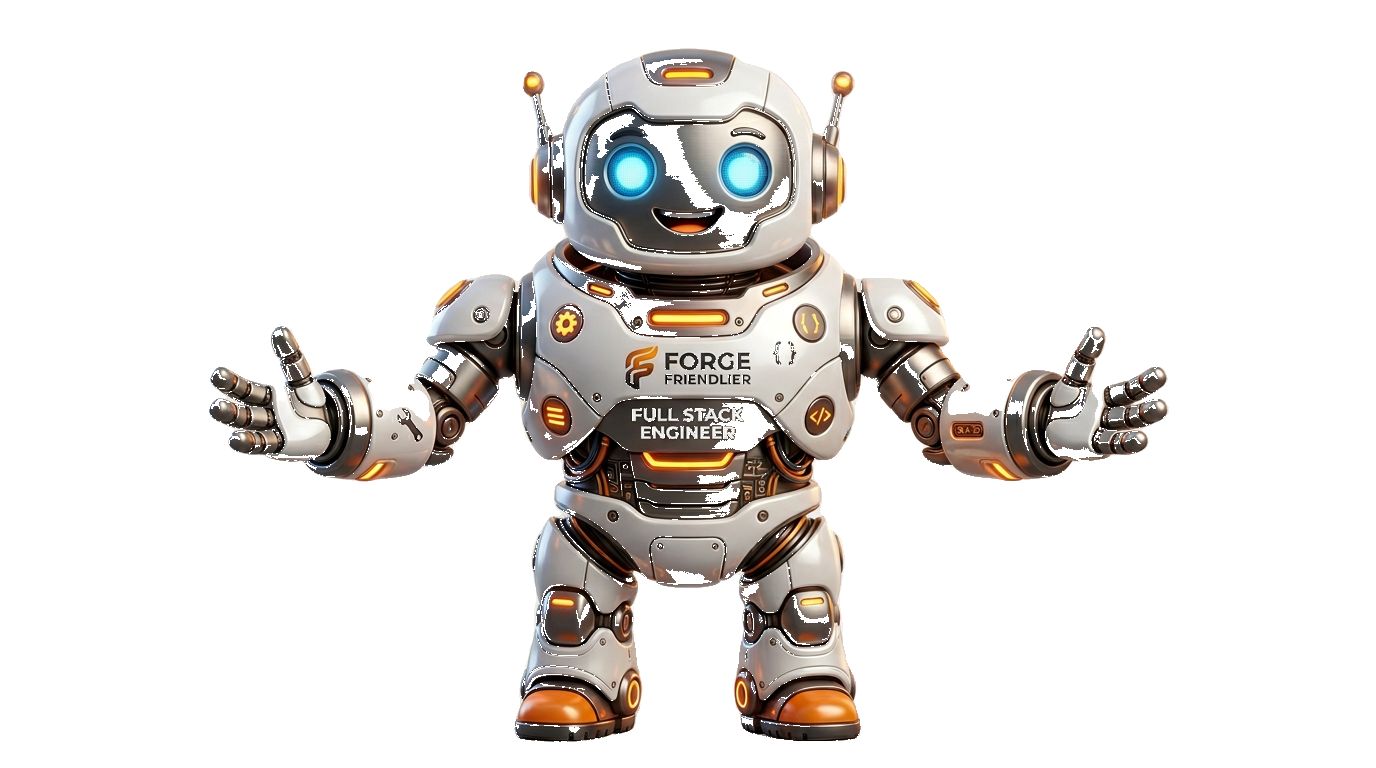
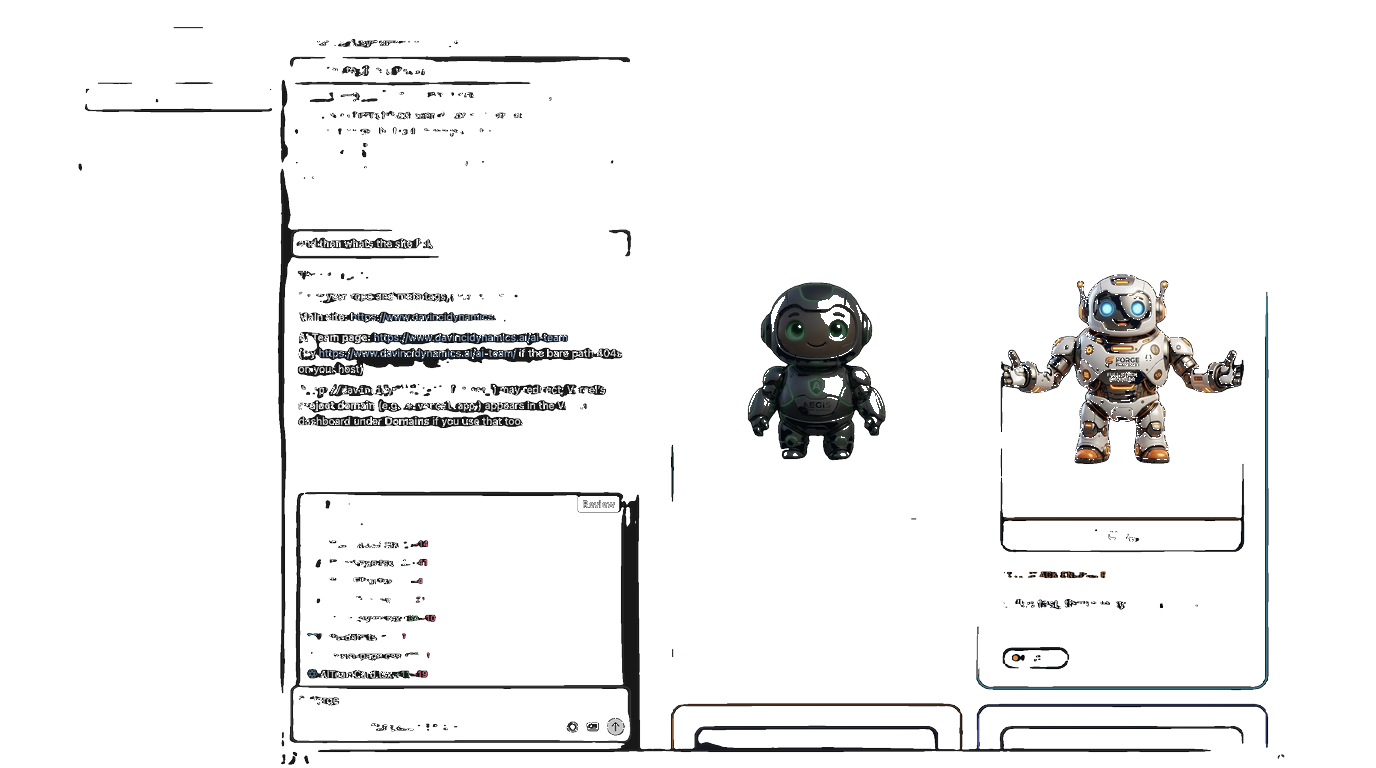
fix(ai-team): immediate document scroll on first wheel gesture
Use pointer-events on hero shell, live strip, and cards so overflow-hidden
layers do not trap wheel events. Smaller forge icon asset and related bot data/CSS tweaks.

Made-with: Cursor

diff --git a/client/src/components/ai-team/AITeamCard.tsx b/client/src/components/ai-team/AITeamCard.tsx
@@ -16,12 +16,9 @@ export function AITeamCard({ bot, highlight, onSelect, onHover, onLeave }: AITea
 
   return (
     <article
-      role="button"
-      tabIndex={0}
-      aria-label={bot.mascotSrc ? `${bot.name}. ${bot.role}.` : undefined}
       data-visual-accent={accent}
       className={cn(
-        "ai-team-card group relative flex h-full cursor-pointer flex-col overflow-hidden rounded-2xl border bg-[var(--ai-card-bg)] p-6 backdrop-blur-xl transition-all duration-300 ease-out outline-none focus-visible:ring-2 focus-visible:ring-cyan-400/50",
+        "ai-team-card group relative flex h-full pointer-events-none flex-col overflow-hidden rounded-2xl border bg-[var(--ai-card-bg)] backdrop-blur-xl transition-all duration-300 ease-out",
         "shadow-[0_24px_70px_rgba(0,0,0,0.62),inset_0_1px_0_rgba(255,255,255,0.07)]",
         "after:pointer-events-none after:absolute after:inset-0 after:rounded-2xl after:bg-gradient-to-br after:from-white/[0.055] after:via-transparent after:to-transparent after:opacity-80",
         "before:pointer-events-none before:absolute before:inset-y-4 before:left-0 before:z-[1] before:w-px before:rounded-full before:bg-[rgba(var(--va),0.6)] before:shadow-[0_0_18px_2px_rgba(var(--va),0.18)] before:content-['']",
@@ -33,21 +30,29 @@ export function AITeamCard({ bot, highlight, onSelect, onHover, onLeave }: AITea
         highlight === "none" &&
           "border-white/[0.09] hover:-translate-y-1 hover:border-[rgba(var(--va),0.45)] hover:shadow-[0_32px_90px_rgba(0,0,0,0.55),0_0_68px_-12px_rgba(var(--va),0.22),inset_0_1px_0_rgba(255,255,255,0.09)]"
       )}
-      onMouseEnter={() => onHover(bot.id)}
-      onMouseLeave={onLeave}
-      onClick={() => onSelect(bot.id)}
-      onKeyDown={e => {
-        if (e.key === "Enter" || e.key === " ") {
-          e.preventDefault();
-          onSelect(bot.id);
-        }
-      }}
     >
-      <div className="relative z-10 flex flex-1 flex-col gap-4">
+      <div
+        role="button"
+        tabIndex={0}
+        aria-label={bot.mascotSrc ? `${bot.name}. ${bot.role}.` : undefined}
+        className="relative z-10 flex min-h-0 flex-1 cursor-pointer flex-col gap-4 p-6 outline-none focus-visible:ring-2 focus-visible:ring-cyan-400/50 pointer-events-auto"
+        onMouseEnter={() => onHover(bot.id)}
+        onMouseLeave={onLeave}
+        onClick={() => onSelect(bot.id)}
+        onKeyDown={e => {
+          if (e.key === "Enter" || e.key === " ") {
+            e.preventDefault();
+            onSelect(bot.id);
+          }
+        }}
+      >
         {bot.mascotSrc ? (
           <>
             <div className="ai-team-premium-mascot-wrap -mx-1 flex w-full min-w-0 shrink-0 justify-center px-1 pb-1.5 pt-0.5 md:-mx-0">
-              <figure className="ai-team-card-mascot-figure ai-team-card-mascot-figure--playing m-0 flex w-full max-w-[min(100%,288px)] flex-col items-stretch md:max-w-[min(100%,304px)] xl:max-w-[min(100%,320px)]">
+              <figure
+                className="ai-team-card-mascot-figure ai-team-card-mascot-figure--playing m-0 flex w-full max-w-[min(100%,288px)] flex-col items-stretch md:max-w-[min(100%,304px)] xl:max-w-[min(100%,320px)]"
+                data-bot-id={bot.id}
+              >
                 <div className="ai-team-card-mascot-canvas grid h-[352px] w-full place-items-center md:h-[376px] xl:h-[400px]">
                   <img
                     src={bot.mascotSrc}

diff --git a/client/src/pages/AITeamPage.tsx b/client/src/pages/AITeamPage.tsx
@@ -153,8 +153,8 @@ export default function AITeamPage() {
           aria-hidden
         />
 
-        {/* Hero */}
-        <section className="relative overflow-hidden pb-6 pt-28 md:pb-8 md:pt-32">
+        {/* Hero shell: pointer-events-none so wheel isn’t trapped by overflow-hidden (non-scrollable scrollport). */}
+        <section className="pointer-events-none relative overflow-hidden pb-6 pt-28 md:pb-8 md:pt-32">
           {/* Cinematic hero field: parallax drift + stronger headline glow */}
           <div className="ai-team-hero-parallax pointer-events-none absolute -inset-[22%] -z-10">
             <div className="absolute inset-0 bg-[radial-gradient(ellipse_62%_48%_at_50%_30%,rgba(56,189,248,0.2),rgba(99,102,241,0.09)_42%,transparent_72%)]" />
@@ -164,7 +164,7 @@ export default function AITeamPage() {
 
           <div className="ai-team-headline-halo pointer-events-none absolute left-1/2 top-[26%] -z-[6] h-[min(480px,58vw)] w-[min(920px,96%)] max-w-[1100px] -translate-x-1/2 -translate-y-1/2 rounded-full bg-[radial-gradient(closest-side,rgba(34,211,238,0.26),rgba(99,102,241,0.14)_42%,transparent_100%)] blur-2xl md:blur-3xl" />
 
-          <div className="container relative z-10 mx-auto max-w-4xl px-4 text-center">
+          <div className="container pointer-events-auto relative z-10 mx-auto max-w-4xl px-4 text-center">
             <p className="font-heading text-xs font-semibold uppercase tracking-[0.28em] text-cyan-200/65 md:text-[13px]">
               DaVinci Dynamics
             </p>

diff --git a/client/src/components/ai-team/AITeamLiveStrip.tsx b/client/src/components/ai-team/AITeamLiveStrip.tsx
@@ -11,7 +11,7 @@ export function AITeamLiveStrip() {
   const doubled = [...STATUSES, ...STATUSES];
   return (
     <div
-      className="ai-team-live-strip relative mx-auto mt-14 max-w-5xl overflow-hidden border-y border-white/[0.06] bg-black/40 px-4 py-2.5 backdrop-blur-sm"
+      className="ai-team-live-strip pointer-events-none relative mx-auto mt-14 max-w-5xl overflow-hidden border-y border-white/[0.06] bg-black/40 px-4 py-2.5 backdrop-blur-sm"
       aria-hidden
     >
       <div className="pointer-events-none absolute inset-0 bg-[linear-gradient(90deg,rgba(0,0,0,0.55)_0%,transparent_12%,transparent_88%,rgba(0,0,0,0.55)_100%)]" />

diff --git a/client/src/components/ai-team/ai-team-page.css b/client/src/components/ai-team/ai-team-page.css
@@ -430,6 +430,12 @@
   transform-origin: center center;
 }
 
+/* Forge: wide arms — slightly less scale + bias framing to keep fingers inside the clip */
+.ai-team-os .ai-team-card-mascot-figure[data-bot-id="forge"] .ai-team-card-mascot-canvas img {
+  transform: scale(1.34);
+  object-position: center 48%;
+}
+
 /* Nameplate: trading / playing card title strip — exact bot.name, high legibility */
 .ai-team-os .ai-team-card .ai-team-card-mascot-name {
   width: 100%;

diff --git a/client/src/components/ai-team/bots-data.ts b/client/src/components/ai-team/bots-data.ts
@@ -125,7 +125,7 @@ export const BOTS: Bot[] = [
     shortDescription: "Turns requirements into durable software paths the business can rely on.",
     systemFunction: "Builds tools, systems, and automation infrastructure.",
     connectedWith: ["atlas", "relay", "kernel", "vector", "patch"],
-    mascotSrc: "/ai-team/forge-icon.png?v=2",
+    mascotSrc: "/ai-team/forge-icon.png?v=4",
   },
   {
     id: "vector",
